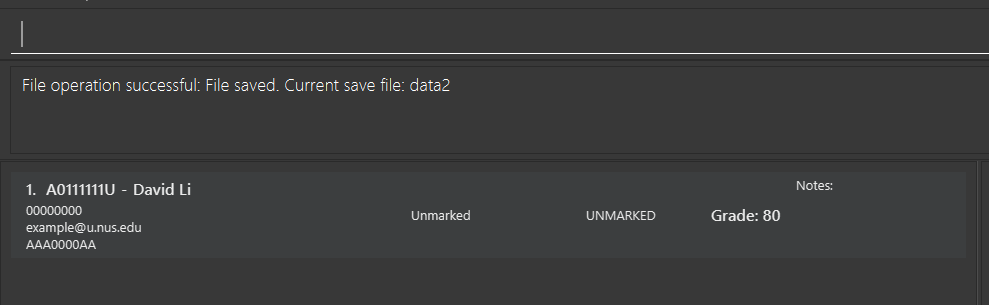
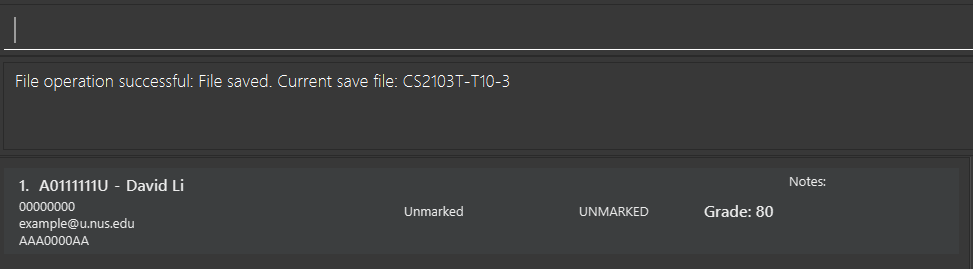
Update User Guide
Added remaining pictures to the commands that did not have output
pictures.

This allows users to visualise the output of their command.

Let's add pictures showing the output of example commands.

This helps users know whether the output they got is correct.

diff --git a/docs/UserGuide.md b/docs/UserGuide.md
@@ -526,13 +526,18 @@ file /save SAVE_FILE
 **Examples**:
 - `file /save CS2103T-T10-3`
 
-<div style="background-color: #fde68a; padding: 10px; border: 1px solid #000; border-radius: 5px; color: #000">
-    <b>Warning</b>
+<div style="background-color: #dc3545; padding: 10px; border: 1px solid #000; border-radius: 5px; color: #FFF">
+    <b>Alert</b>
     <ul>
       <li>If <code>SAVE_FILE.json</code> already exists in the <code>data</code> directory, it will be overwritten.</li>
       <li>It is recommended NOT to modify the saved <code>SAVE_FILE.json</code> directly as it may introduce unintended behaviour in the application.</li>
     </ul>
 </div><br>
+
+<br>
+
+> ![File Save Command Example](images/fileSaveCommandExample.png)
+<br> Fig 3.8 - Output of `file /save CS2103T-T10-3`
 
 ---
 
@@ -553,11 +558,16 @@ file /load SAVE_FILE
 **Examples**:
 - `file /load CS2103T-T10-3`
 
+<br>
+
+> ![File Load Command Example](images/fileLoadCommandExample.png)
+<br> Fig 3.9 - Output of `file /load CS2103T-T10-3`
+
 ---
 
-### 📂 Listing Save Files: `file /list`
+### 📂 Listing Save Files: `file /list all`
 
-BetterCallTA stores all save files in `[JAR file location]/data/` 💾 and the `file /list` command will list out all `.json` save files in that directory, as well as indicating the current save file that is being in use by the application as indicated by `(current save file)` 📌.
+BetterCallTA stores all save files in `[JAR file location]/data/` 💾 and the `file /list all` command will list out all `.json` save files in that directory, as well as indicating the current save file that is being in use by the application as indicated by `(current save file)` 📌.
 
 
 **Format**
@@ -565,10 +575,16 @@ BetterCallTA stores all save files in `[JAR file location]/data/` 💾 and the `
 file /list all
 ```
 
-* List out all the save files stored by the application.
+Lists out all the save files stored by the application.
 
 **Examples**:
 - `file /list all`
+
+<br>
+
+> ![File List All Command Example](images/fileListCommandExample.png)
+<br> Fig 3.10 - Output of `file /list all`
+<br> * Actual output may be different depending on what files are in `[JAR file location]/data/`
 
 — 
 
@@ -588,6 +604,11 @@ clear
     </ul>
 </div><br>
 
+<br>
+
+> ![Clear Command Example](images/clearCommandExample.png)
+<br> Fig 3.11 - Output of `clear`
+
 ---
 
 ### 🔄 Resetting All Attendance and Participation Records: `resetRecords`
@@ -606,6 +627,11 @@ resetRecords
     </ul>
 </div><br>
 
+<br>
+
+> ![Reset Records Command Example](images/resetRecordsCommandExample.png)
+<br> Fig 3.12 - Output of `resetRecords`
+
 ---
 
 ### 🚪 Exiting the Program: `exit`
@@ -619,12 +645,17 @@ exit
 
 ---
 
-**⚠ Warning for Advanced Users**:
-You can update the data directly by editing the file, but be cautious.
+<br>
 
-#### ❗ **Caution**:
-- Saving 💾 the application data with the `file /save FILE` command will overwrite the `FILE.json` save file if it already exists.
-- Manually editing the `.json` file can introduce syntax errors, rendering the file unreadable by BetterCallTA. **Validate your `.json` syntax using a JSON linter before attempting to load it.**
+<div style="background-color: #dc3545; padding: 10px; border: 1px solid #000; border-radius: 5px; color: #FFF">
+    <b>⚠ Warning for Advanced Users</b>
+    You can update the data directly by editing the file, but be cautious.
+    <br><br>
+    <ul>
+      <li>Saving 💾 the application data with the <code>file /save FILE</code> command will overwrite the <code>FILE.json</code> save file if it already exists</li>
+      <li>Manually editing the <code>.json</code> file can introduce syntax errors, rendering the file unreadable by BetterCallTA. <b>Validate your <code>.json</code> syntax using a JSON linter before attempting to load it.</b></li>
+    </ul>
+</div><br>
 
 
 ---
